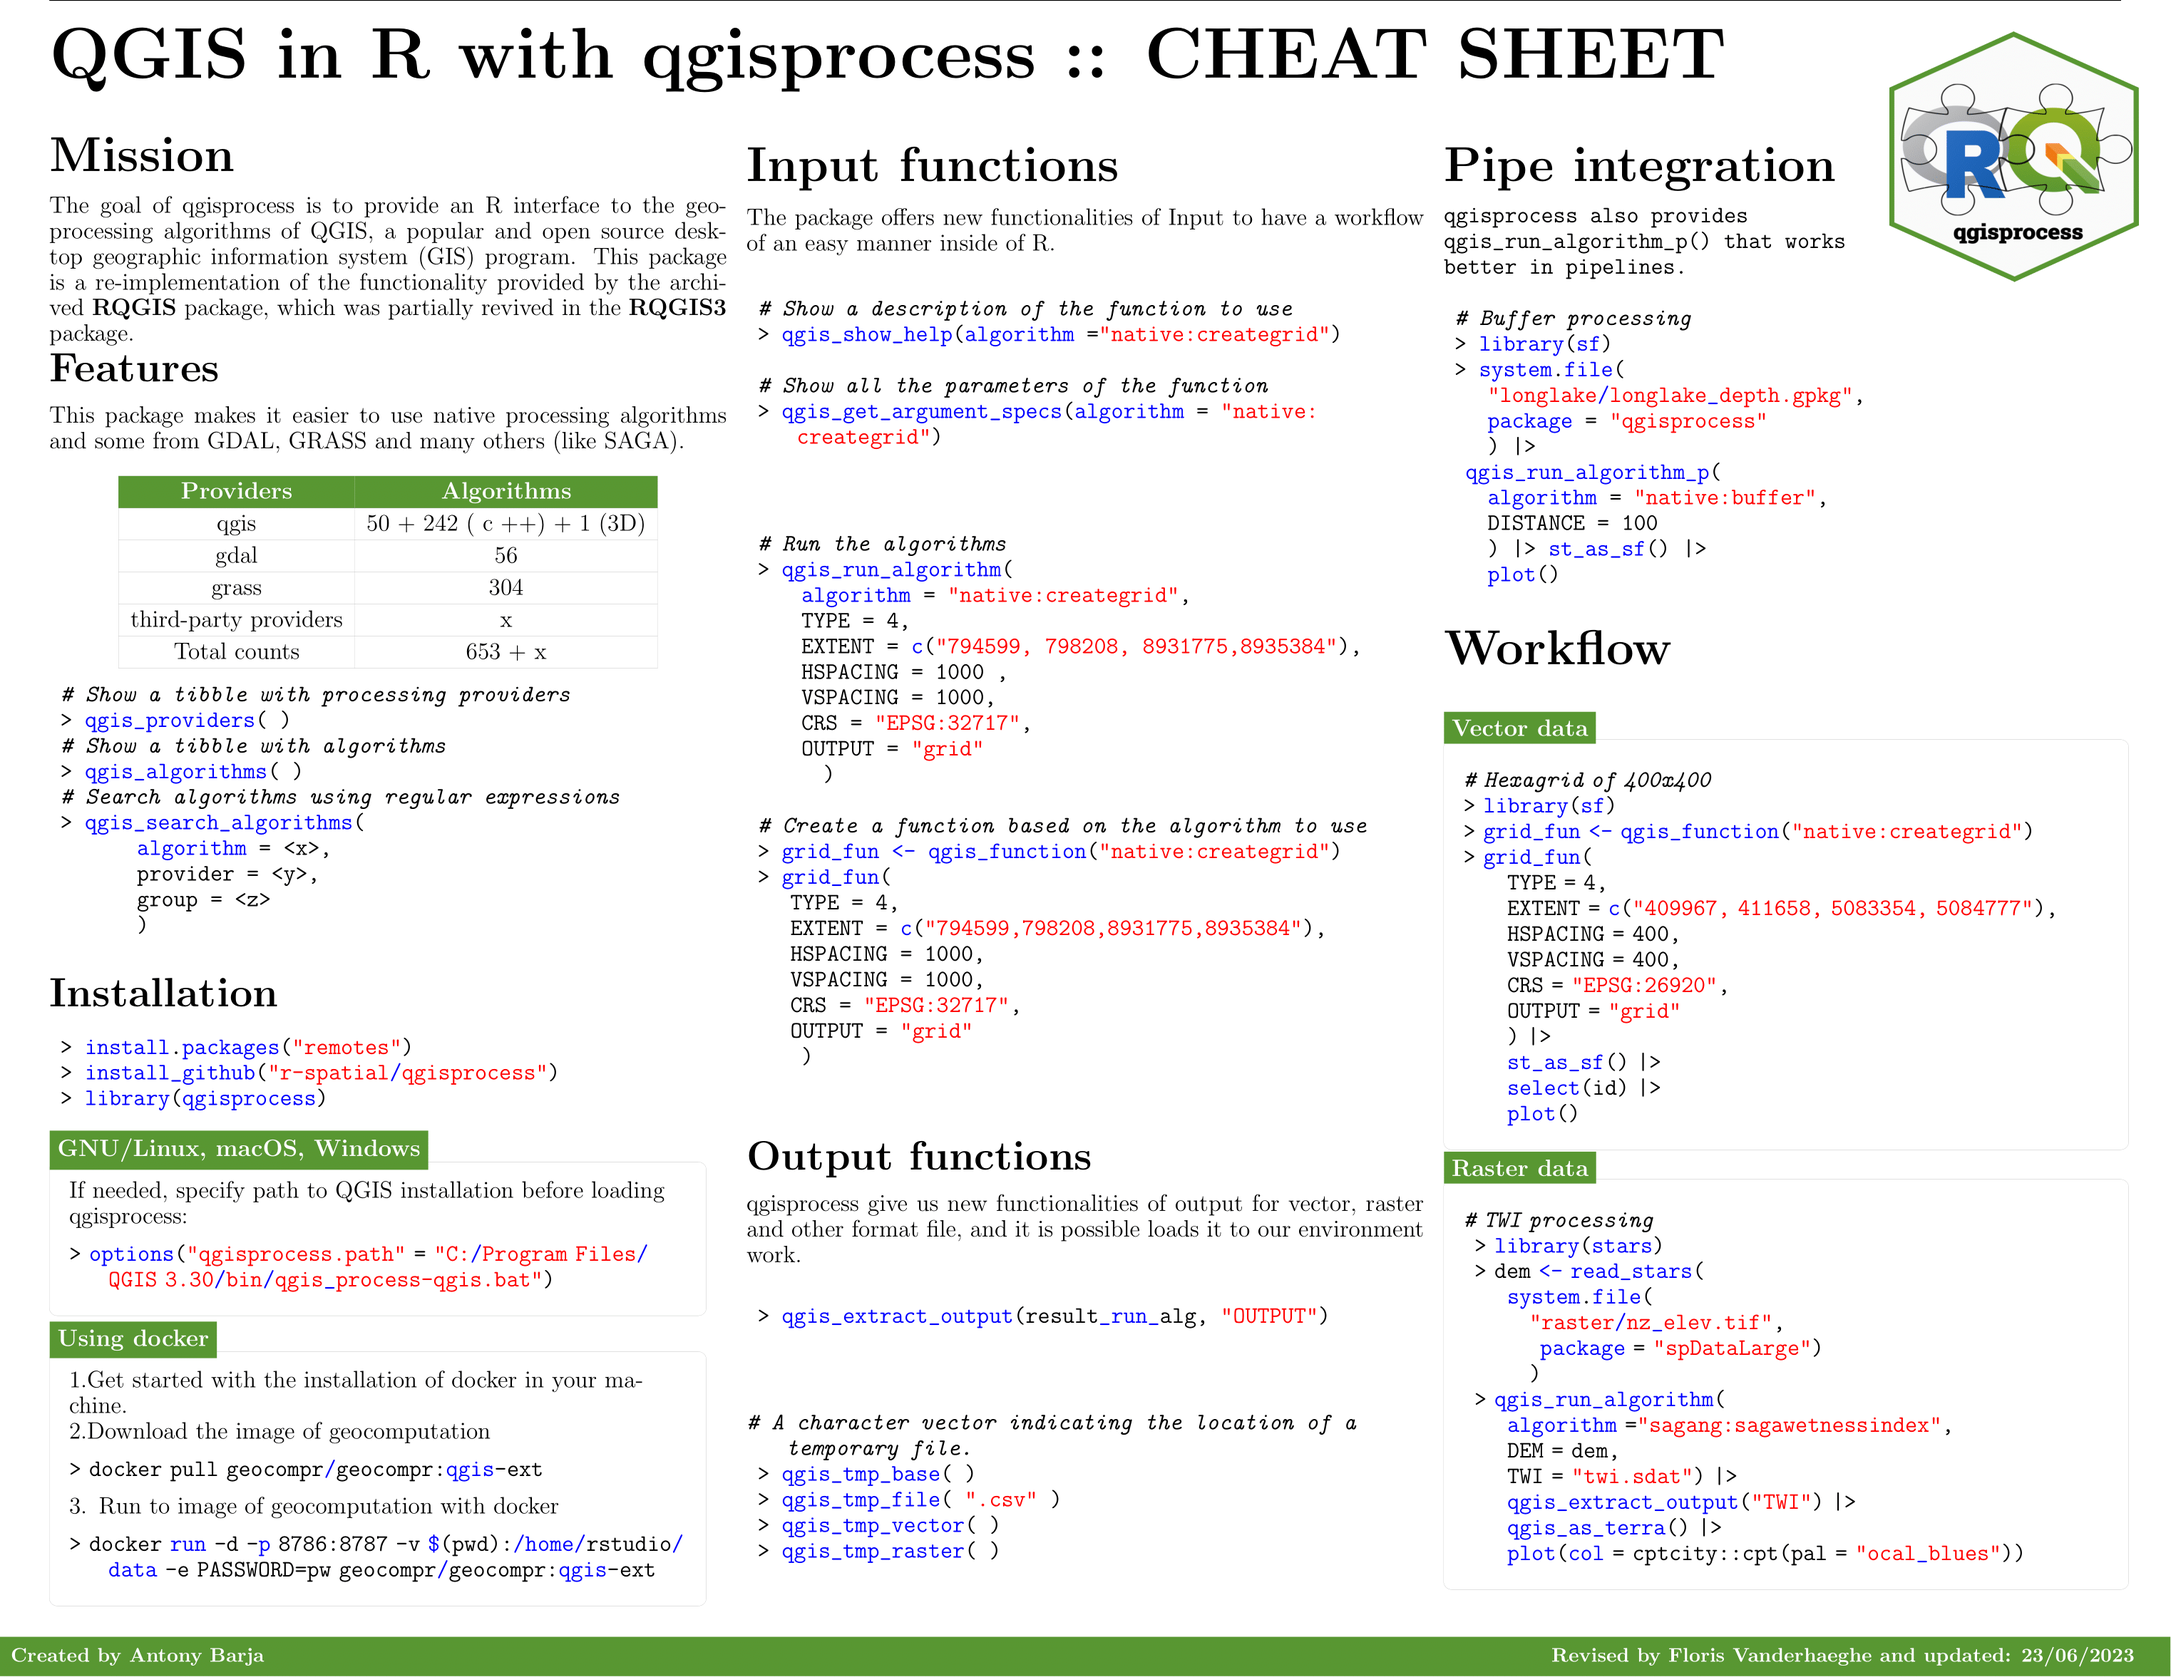
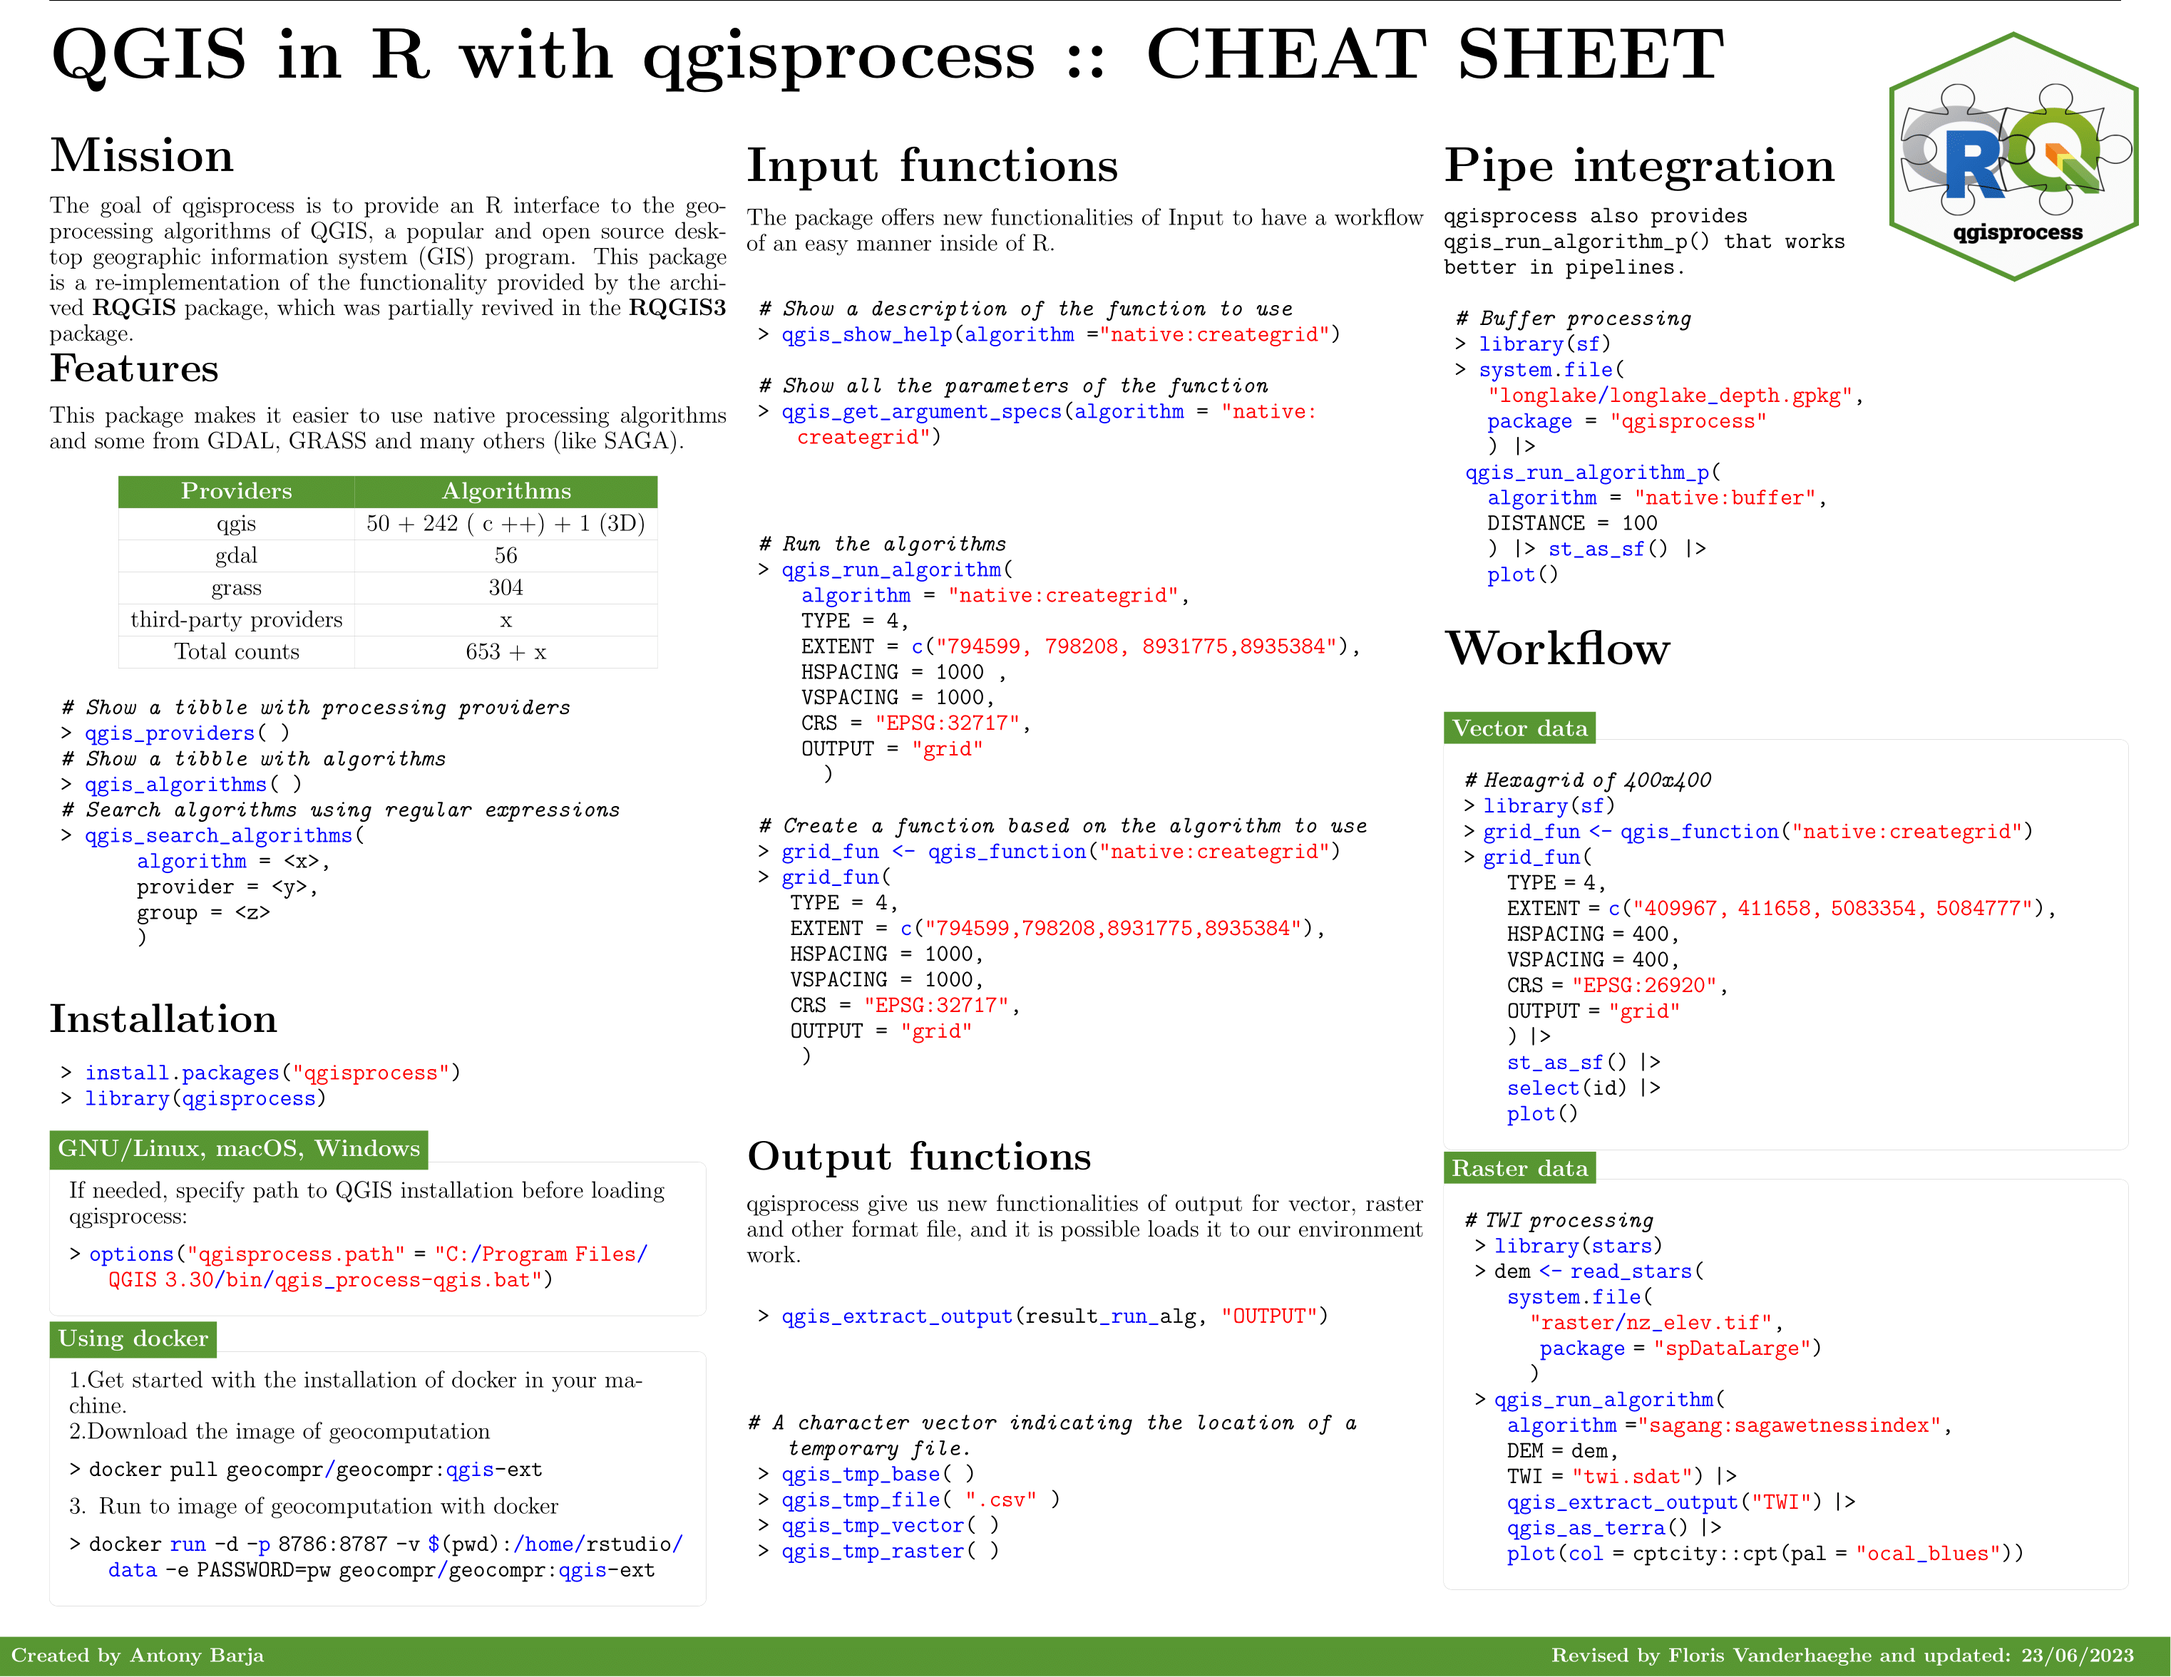
close issue #05

Changed region(s): [[0.0312, 0.4033, 0.2808, 0.5584], [0.0312, 0.5895, 0.2184, 0.6515]]

diff --git a/latex/cs_qgisprocess_es.tex b/latex/cs_qgisprocess_es.tex
@@ -155,8 +155,7 @@ Este paquete facilita el uso de algoritmos de procesamiento nativos y algunos de
 \vspace{10pt}
    \textbf{\fontsize{44}{44}\selectfont \textbf{Instalación}\vspace{5pt}}
     \begin{lstlisting}[style=Rstyle]
- > install.packages("remotes")
- > install_github("r-spatial/qgisprocess")
+ > install.packages("qgisprocess")
  > library(qgisprocess)
     \end{lstlisting}
 \end{minipage}

diff --git a/latex/cs_qgisprocess_en.tex b/latex/cs_qgisprocess_en.tex
@@ -149,8 +149,7 @@
 \vspace{10pt}
    \textbf{\fontsize{20}{5}\selectfont \textbf{Installation}\vspace{5pt}}
     \begin{lstlisting}[style=Rstyle]
- > install.packages("remotes")
- > install_github("r-spatial/qgisprocess")
+ > install.packages("qgisprocess")
  > library(qgisprocess)
     \end{lstlisting}
 \end{minipage}
